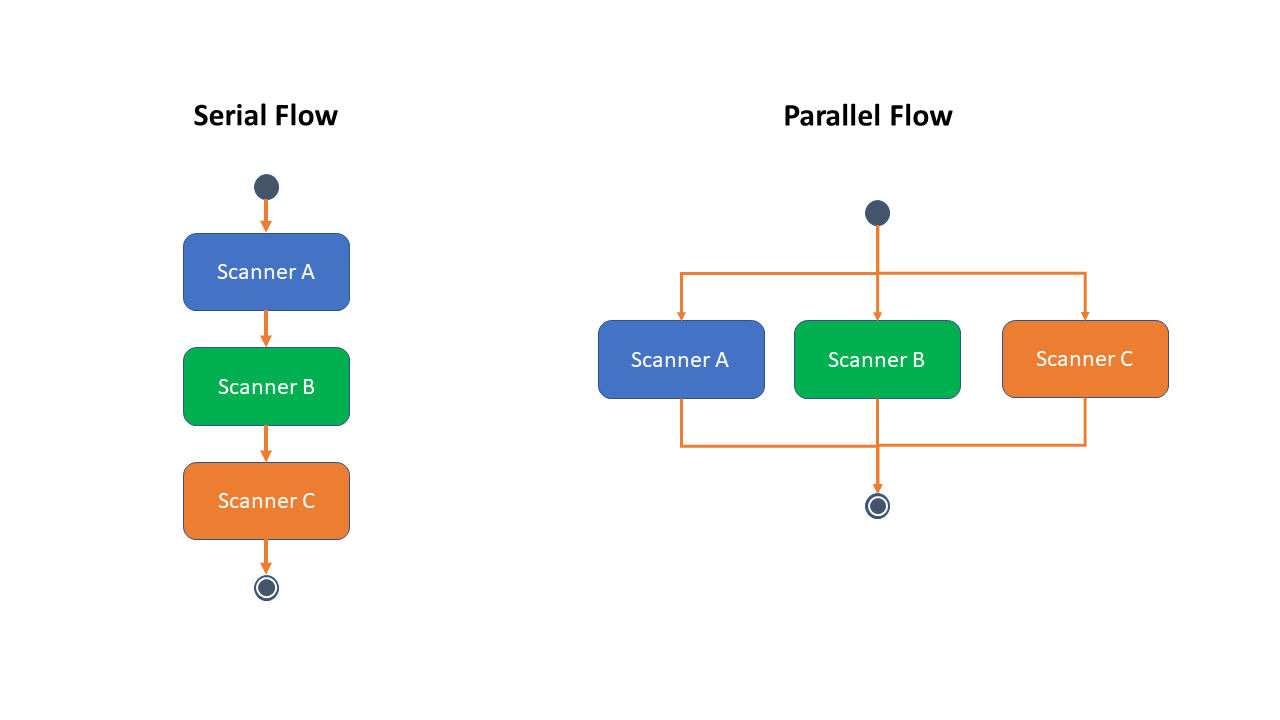
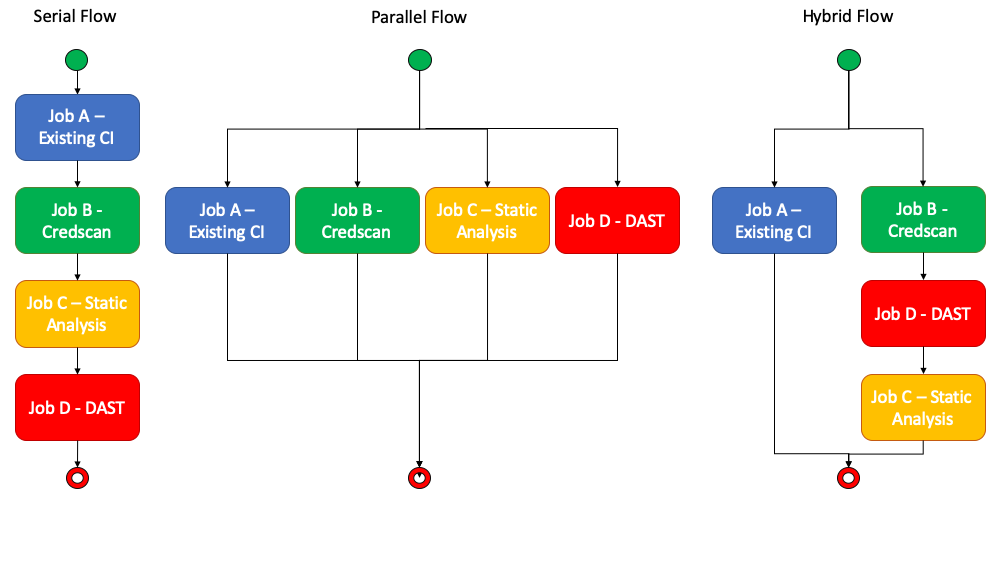
Interim for workflow

diff --git a/Scenarios/Workflow/README.md b/Scenarios/Workflow/README.md
@@ -1,50 +1,46 @@
 # DevSecOps Workflow
 
-This document seeks to provide some best practices around improving workflow during Pull Request.  DevSecOps introduces several tools needed to complete automation of DevSecOps task and complicates Continous Integration when CI marks a pull request as failing CI requirements.
+Pull request are a central activity in adopting Git and Agile based workflows that leverage Continous Integration (CI).  DevSecOps seeks to shift security left and introduces several scenarios/processes/tools needed to have broad security coverage. These additional scenarios during CI can have an impact on developer productivity.  This scenario seeks to improve/optimize workflow during Pull Request.
 
-## Shift left
+## Shift left (conceptually)
 
-We used to have a security testing on the staging phase. The idea of shift left is moving the security testing eariler stage of development to get feedback more quickly.
+In the past, where teams were in a waterfall development model, security testing tended to occur during late testing/ staging phases of the development lifecycle. The concept of shifting left is to move the security testing eariler stage of development to get feedback more quickly.  In an agile delivery model that leverages Git as the version control platform, the pull request becomes a central activity for shifting task left and earlier in the cycle.
 
-![Shift Left](images/ShiftLeft.png)
+<img src="images/ShiftLeft.png" alt="Shift Left" style="width:800px;">
 
-We recommend to security test to shif left. If you have all security testing on the Local Development phase, it might be ideal. Especially for Credential, SSN, CreditCard number scanning. It protect to push your code with sensitive data. However, it depends on the support of the Service/Product.
-If you are available, we recomment to use it. Generally, speaking, we recommend to start the security testing on Pull Request review.
+Generally, we will seek to shift most of the secnarios around DevSecops into CI that runs as part of pull request automation as it helps:
 
-## Security Testing with Pull Request
+* Security Quality Gates integrated with CI
+* It helps alleviate vulnerablity ever making it to the master branch
+* As a developer, we want to holistically see vulnerablity reports in one place
+* Developers can deliberately suppress false positives (Optional) and have those decisions as part of PR history
 
-The reason why we recommend pull request validation for security testing is
-
-* It reduce the number of issue in one validation
-* Quality Gate integrated with CI
-* It protect us to inject the vulnerablity to master branch
-* As a developer, we want to see several vulnerablity reports in one place
-* Want to suppress false positives (Optional)
-
-For the pull request model, some products support that it just report the delta for the issue.
-It helps to developers to focus on what they change and fix it. Also we can specify a quality gate for the pull request. The quality gate start a CI pipeline and validate the code. Unless developers pass the gate,
-the PR is never get merged. Pull request also help to developers to notice all vulnerablity in one place.
-
-![Overview](images/Overview.png)
+<img src="images/Overview.png" alt="PR Screen" style="width:1000px;">
 
 For the advanced scenario, we can use PR Bot to suppress false positives and create advanced work item integration. You can refer the PR bot strategy on the other document.
 
 ## WorkFlow patterns
 
-![WorkFlowType](images/WorkFlowType.png =800x400)
+We have developed three options for including DevSecOps scenarios into your applications development workflow.  These options provide flexibility based on not only the desired security analysis but also the resources and time needed to execute them.  Our recommendation for optimal performance is to have an agent pool with parallel job size >= 5.  The hybrid scenario works best with 2-3 parallel jobs and the serial flow is built for the scenario where you only have one agent and CI execution time is not a concern or not addressable.  To adjust the number of parallel jobs, review the documentation [here](https://docs.microsoft.com/en-us/azure/devops/pipelines/licensing/concurrent-jobs?view=azure-devops).
+
+<img src="images/WorkFlowType.png" alt="WorkFlowType" style="width:800px;">
 
 ### Serial Flow
 
-If you have a flow that you need to execute one by one, use the Serial folow pattern.
+If you have a flow that you need to execute one by one, use the Serial folow pattern.  Fully implemented this pipeline will take approxiamately 30 minutes to fully execute on average.
 
 ### Parallel Flow
 
-If you don't need to execute the serially, you can use the parrllel flow. It help to reduce the execution time of CI.
+If you don't need to execute the serially, you can use the parrllel flow. This can greatly reduce execution time to 5-7 minutes.
+
+### Hybrid Flow
+
+Hybrid flow is a compromise on parallel jobs where you continue to run CI in its own pipeline but delegate all DevSecOps task to a secondary pipeline.  The benefit of this model is you can apply org policy effectively and reuse the DevSecOps across projects with minimal modifications potentially.  Execution time can very but is generally around 12 minutes in our test scenario.
 
 ### Enforce Policy
 
 If you want to inject specific task for all pipeline on your organization or project, you can use this strategy.
-Please refer the [Enforce policy](../EnforceOrgSecurityPolicy/README.md) Documentation.
+Please refer the [Enforce policy](../EnforceOrgSecurityPolicy/README.md) Scenario Documentation.
 
 ## Configration
 
@@ -55,7 +51,7 @@ Create multiple jobs then configrue a dependency and condition for each jobs.
 If you have Job A, job B, Job C, you need to configure the dependency and condition.
 Job B depends on Job A, Job C depends on JobB, also you can configure the configuration of Job B and C as "Even if a previous job has failed.
 
-![SerialFlow](images/SerialFlowOverview.png)
+<img src="images/SerialFlowOverview.png" alt="SerialFlow" style="width:800px;">
 
 You will find a Serial Flow Pipeline sample in [here](https://dev.azure.com/csedevops/DevSecOps/_apps/hub/ms.vss-ciworkflow.build-ci-hub?_a=edit-build-definition&id=73).
 
